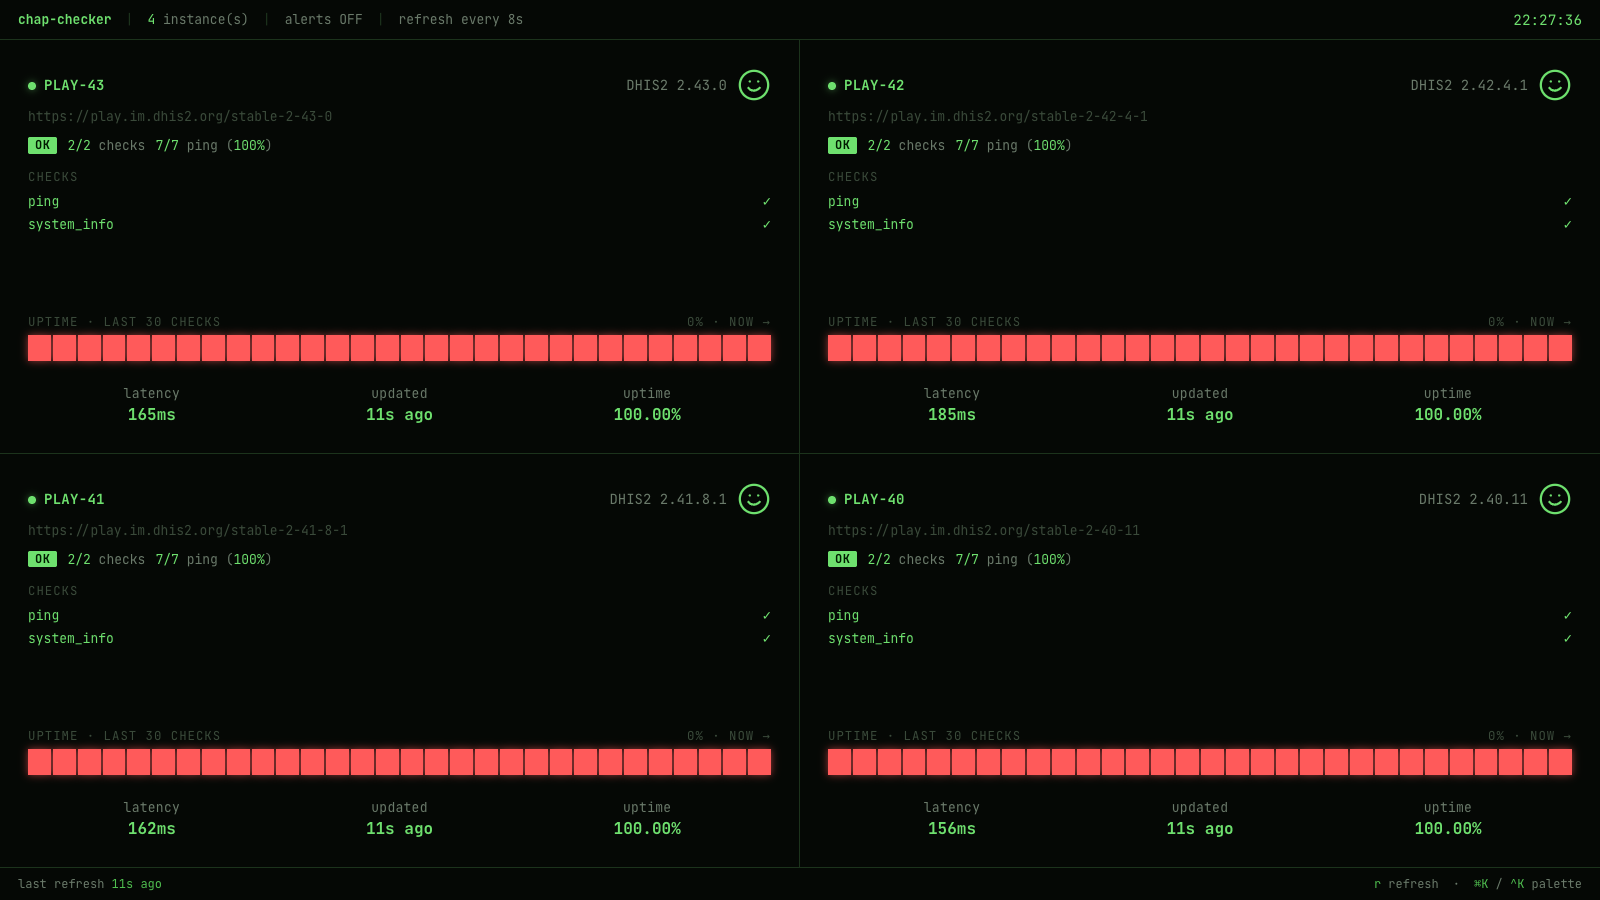
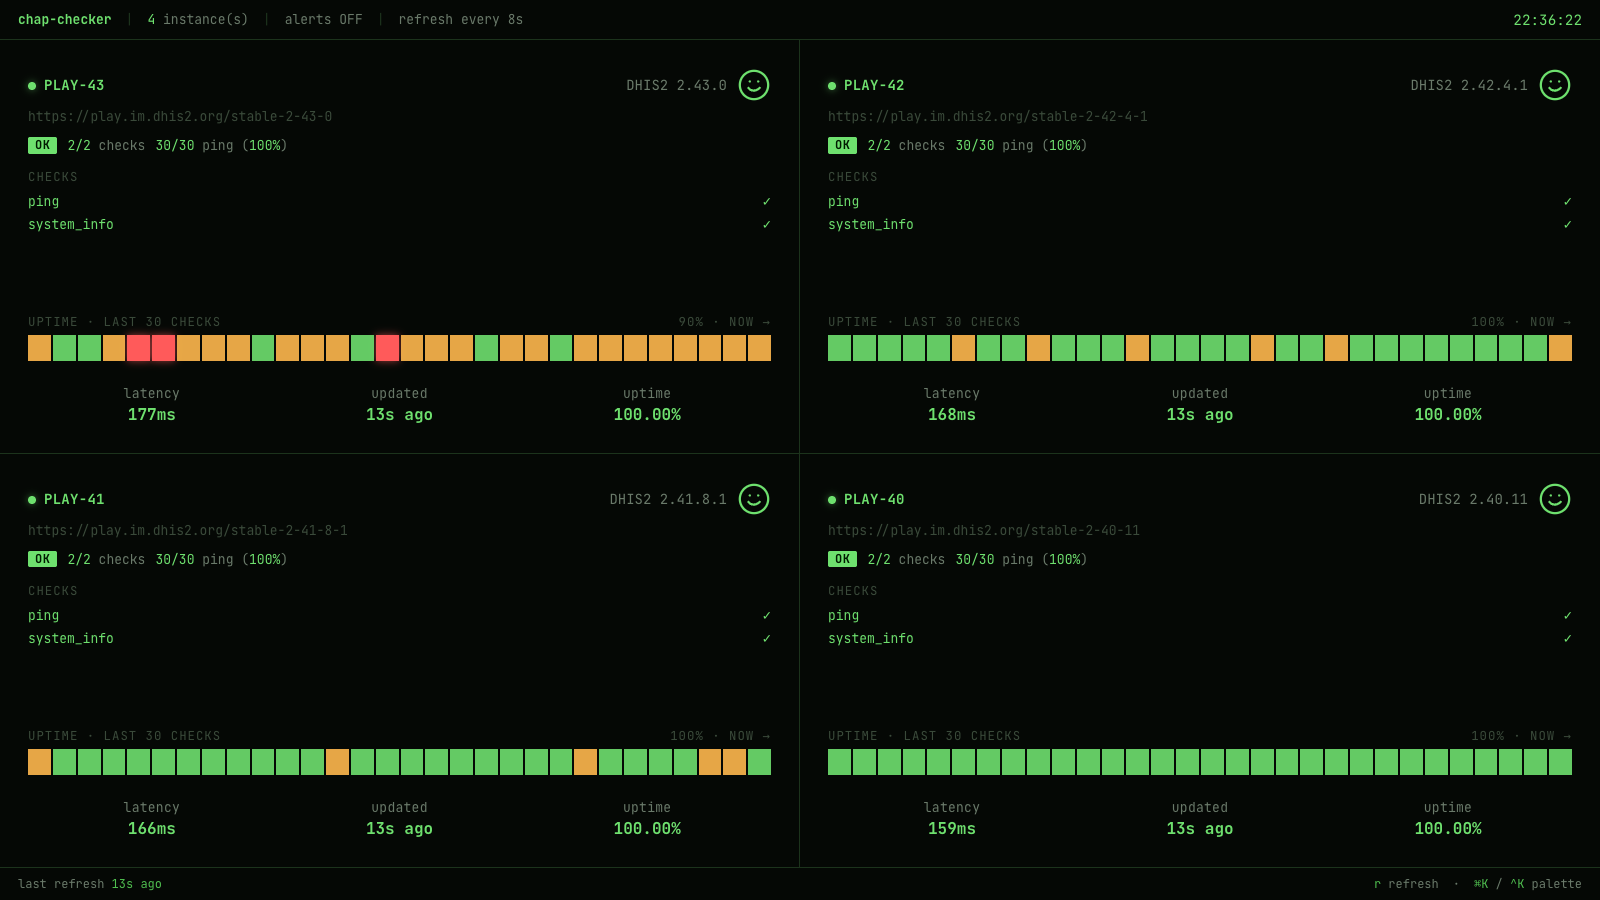
fix(web): wire live sparkline seed, global Esc, and trim demo palette entries
- Live tiles now carry a deterministic `seed` (hash of name) and a non-zero
  `baseLat`, so `buildHistory()`'s mulberry32 RNG produces real jitter
  instead of degenerating to `rng()=0` (which previously rendered every
  history bar as a red hiccup).
- Global keydown handler closes the command palette on Esc regardless of
  focus; the original artifact only handled Esc inside the palette input.
- Dropped the designer-only entries from the palette: "Demo: toggle
  PLAY-41 DOWN" and the three "Status:" mode switchers (subtle/tint/
  edge) - the latter remain reachable from the hidden TweaksPanel for
  designer work, the demoDown toggle stays in the tweak state but no
  longer has a palette command or `d` keybind.
- Wired "Open GitHub repository" and "Open documentation" to real URLs
  (previously empty `run:() => {}`).
- Updated docs/guides/web.md palette list, refreshed both screenshots
  against live data, and corrected the persistence claim (themes live
  in React state for the session, not localStorage).

diff --git a/web-ui/src/app.jsx b/web-ui/src/app.jsx
@@ -253,15 +253,22 @@ function App() {
     { id:'density-comfy',   label:'Density: comfortable', run:() => setTweak('density','comfy') },
     { id:'density-tv',      label:'Density: TV', run:() => setTweak('density','tv') },
     { id:'density-wall',    label:'Density: wall (big numbers)', run:() => setTweak('density','wall') },
-    { id:'status-subtle', label:'Status: subtle (default)', run:() => setTweak('statusMode','subtle') },
-    { id:'status-tint',   label:'Status: card tint', run:() => setTweak('statusMode','tint') },
-    { id:'status-strip',  label:'Status: edge bar', run:() => setTweak('statusMode','strip') },
+    // CK-WIRING: status-subtle/tint/strip were designer-time tweaks for
+    // picking how to render status (no color, card tint, or coloured
+    // edge bar). The default 'subtle' is what we ship; the other two
+    // are kept reachable from the (hidden) TweaksPanel for design work.
     { id:'theme-phosphor', label:'Theme: phosphor green', run:() => setTweak('theme','phosphor') },
     { id:'theme-amber',    label:'Theme: amber', run:() => setTweak('theme','amber') },
     { id:'theme-high',     label:'Theme: high contrast', run:() => setTweak('theme','high') },
-    { id:'demo-down', label:'Demo: toggle PLAY-41 DOWN', hint:'d', run:() => setTweak('demoDown', !t.demoDown) },
-    { id:'gh',  label:'Open GitHub repository', run:() => {} },
-    { id:'docs',label:'Open documentation', run:() => {} },
+    // CK-WIRING: the artifact ships a demoDown toggle that swaps PLAY-41
+    // into a FAIL state for design preview. With live data that's
+    // misleading (real failures show real), so it's omitted from the
+    // palette. The tweak + buildHistory branch stay so the rest of the
+    // artifact code is untouched.
+    { id:'gh',   label:'Open GitHub repository',
+      run:() => window.open('https://github.com/dhis2-chap/chap-checker', '_blank', 'noopener') },
+    { id:'docs', label:'Open documentation',
+      run:() => window.open('https://dhis2-chap.github.io/chap-checker/', '_blank', 'noopener') },
   ], [t.demoDown]);
 
   // global keybindings
@@ -273,13 +280,21 @@ function App() {
       if ((e.metaKey || e.ctrlKey) && e.key.toLowerCase() === 'k') {
         e.preventDefault(); setPaletteOpen(o => !o); return;
       }
+      // CK-WIRING: Esc closes the palette from anywhere on the page, not
+      // just when the palette's input has focus. The original artifact
+      // only handled Esc inside the palette input; if focus moved
+      // elsewhere (e.g. user clicked outside) Esc was dead.
+      if (paletteOpen && e.key === 'Escape') {
+        e.preventDefault(); setPaletteOpen(false); return;
+      }
       if (isTyping || paletteOpen) return;
       if (e.key === 'r') { setLastRefreshAt(Date.now()); setRefreshTick(x=>x+1); }
       else if (e.key === 'f') {
         if (document.fullscreenElement) document.exitFullscreen?.();
         else document.documentElement.requestFullscreen?.();
       }
-      else if (e.key === 'd') setTweak('demoDown', !t.demoDown);
+      // CK-WIRING: the artifact's `d` keybind toggled demoDown; removed
+      // along with the palette entry. See the commands array above.
     };
     window.addEventListener('keydown', onKey);
     return () => window.removeEventListener('keydown', onKey);

diff --git a/web-ui/_state.js b/web-ui/_state.js
@@ -32,10 +32,26 @@
   }
 
   /**
+   * Deterministic integer hash of an instance name. The artifact's
+   * ``buildHistory`` uses ``inst.seed * 17 + 1`` as the mulberry32 seed;
+   * without a valid integer here the sparkline rng degenerates to all-
+   * zero and every history sample shows as a hiccup (red bar). Any
+   * non-zero integer fixed per instance works; we use sum-of-chars.
+   */
+  function hashSeed(name) {
+    let h = 0;
+    for (let i = 0; i < name.length; i++) {
+      h = (h * 31 + name.charCodeAt(i)) | 0;
+    }
+    return h || 1;
+  }
+
+  /**
    * Map one server tile -> one artifact instance.
    * Designer artifact expects: id, name, platform, version, url, status,
    * checksPassed/Total, pingPassed/Total/Pct, latency, updated, uptime,
-   * checks:[{name,ok,down?}].
+   * checks:[{name,ok,down?}], seed, baseLat (seed/baseLat feed the
+   * sparkline RNG inside ``buildHistory``).
    */
   function mapTile(tile) {
     const status = mapStatus(tile.worst_status);
@@ -44,6 +60,7 @@
       ok: c.status === "ok",
       down: status === "down",
     }));
+    const latency = typeof tile.latency_ms === "number" ? tile.latency_ms : 0;
     return {
       id: tile.name,
       name: tile.name.toUpperCase(),
@@ -58,10 +75,13 @@
       pingPct: tile.ping_total > 0
         ? Math.round((100 * tile.ping_ok) / tile.ping_total)
         : 100,
-      latency: typeof tile.latency_ms === "number" ? tile.latency_ms : 0,
+      latency,
       updated: "—", // app.jsx recomputes this from lastRefreshAt
       uptime: typeof tile.uptime_pct === "number" ? tile.uptime_pct : 100,
       checks,
+      // Sparkline RNG inputs - see hashSeed() above for why these matter.
+      seed: hashSeed(tile.name),
+      baseLat: latency || 150,
     };
   }
 

diff --git a/docs/guides/web.md b/docs/guides/web.md
@@ -28,12 +28,14 @@ The command palette currently exposes:
 
 - **Refresh now**
 - **Toggle fullscreen**
+- **Density:** default / comfortable / TV / wall
+- **Theme:** phosphor green / amber / high contrast
 - **Open GitHub repository**
 - **Open documentation**
 
 Type to filter the list. Click an item or hit `Enter` to run it. New
-commands are a small JS addition in
-[`src/chap_checker/web.py`](https://github.com/dhis2-chap/chap-checker/blob/main/src/chap_checker/web.py).
+commands are a small JSX addition in
+[`web-ui/src/app.jsx`](https://github.com/dhis2-chap/chap-checker/blob/main/web-ui/src/app.jsx).
 
 ![Command palette open in the web dashboard](../assets/web-dashboard-palette.png)
 
@@ -43,13 +45,16 @@ same muscle memory works in both surfaces.
 
 ## Themes & density
 
-The command palette exposes runtime tweaks for the look:
+The command palette exposes two runtime tweaks for the look:
 
 - **Themes**: `phosphor green` (default), `amber`, `high contrast`.
 - **Density**: `default`, `comfortable`, `TV`, `wall (big numbers)`.
-- **Status mode**: `subtle`, `card tint`, `edge bar`.
 
-Settings persist via `localStorage` and survive a page reload.
+Defined as CSS custom-property bundles in
+[`web-ui/src/app.jsx`](https://github.com/dhis2-chap/chap-checker/blob/main/web-ui/src/app.jsx)
+(`THEMES`, `DENSITY`) and applied by `applyTheme()` on every tweak
+change. Selections live in React state for the session; a page reload
+resets to the defaults.
 
 ## Architecture
 
